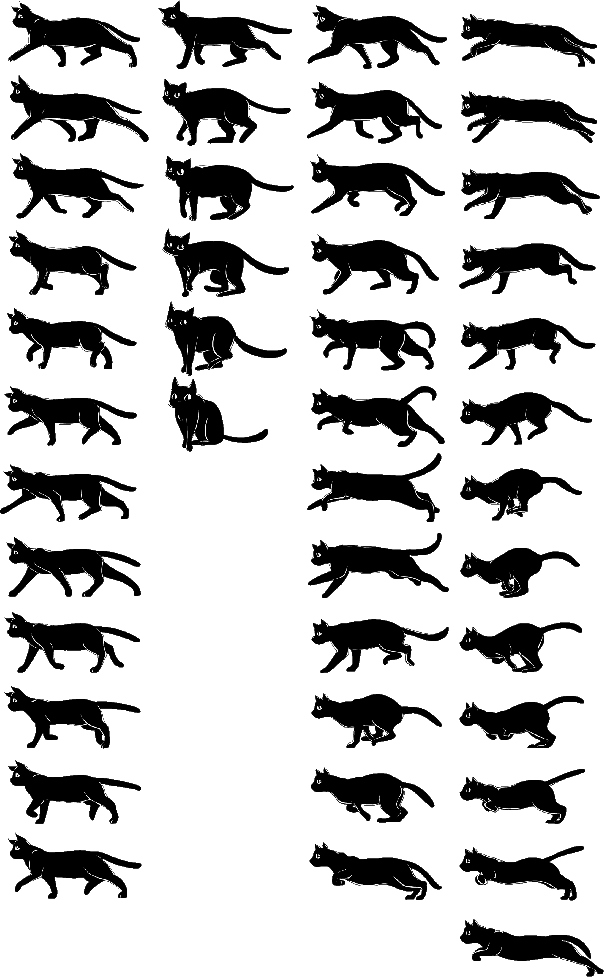
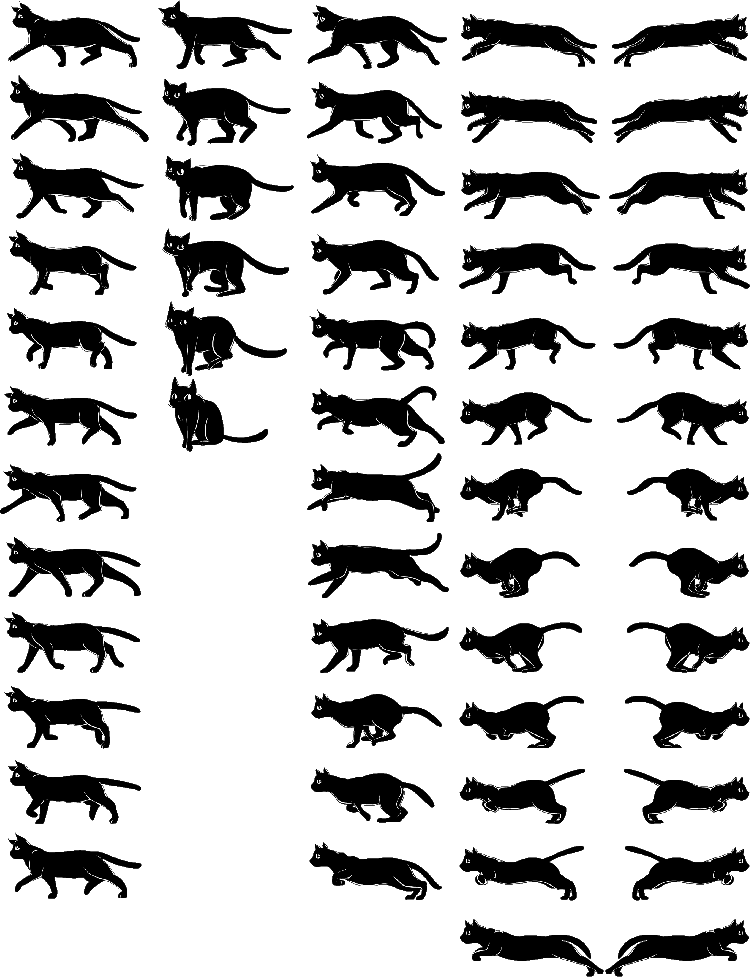
added cat game

Changed region(s): [[0.0, 0.0, 1.0, 1.0]]

diff --git a/js/app.js b/js/app.js
@@ -10,16 +10,165 @@ $(document).ready(function () {
     });
 
 
+    //prevent clicking to highlight
+    $('#cat_holder').mousedown(function(){ return false; })
+    $('#little_cat_container').mousedown(function(){ return false; })
+    $('.home-section').mousedown(function(){ return false; })
+
     var animation = $('.tuna_container');
 
     animation.one('webkitAnimationEnd oanimationend msAnimationEnd animationend',   
     function(e) {
-    	//$('#little_cat').removeClass('tuna');
+    	console.log("called!");
+	    
 	    $('#little_cat').removeClass('tuna-walk');
 	    $('#little_cat').addClass('tuna-sit');
-	    // code to execute after animation ends
-	    //console.log('hehe!');
-   
+
+	    createKittyPopOver();
+	    
+    });
+    var popoverContent =  "I've been a naughty kitten, play a game of <b> Hit the Meow? </b> </br> " +
+	    						"<small> Game rule: Try to hit me while I'm on the run :P </small> </br></br> " +
+	    						"<div class=\"kitten_conv\">" + 
+	    						"<button id=\"tuna_challenge_yes\" class=\"btn\">Yes </button> &nbsp&nbsp"+
+	    						"<button id=\"tuna_challenge_no\" class=\"btn btn-danger\">Close</button>" +
+	    						"</div> ";
+
+	function getPopOverContent(){
+		return popoverContent;
+	}
+
+	function createKittyPopOver(){
+
+	    
+
+	    $('#little_cat').popover({
+	    	html:true,
+	    	placement:'top',
+	    	content:function () { return getPopOverContent(); },
+	    	delay:'0',
+	    	trigger:'manual'
+	    });
+
+	    $('#little_cat').popover('show');
+
+
+	    $('#tuna_challenge_yes').click(function(event){
+	    	$('#little_cat').popover('hide');
+	    	startGame();
+	    });
+
+
+	    $('#tuna_challenge_no').click(function(event){
+	    	console.log('clicked!');
+	    	$('#little_cat').popover('hide');
+	    });
+	}
+
+	var gameInterval; 
+
+	function startGame(){
+
+		//start the cat animation to run
+	    $('#little_cat_container').removeClass('tuna_container');
+	    $('#little_cat_container').addClass("tuna_run_container");
+
+	    $('#timer_score').show();
+
+	    var timeleft = 10;
+	    $('#timer_left').text(timeleft);
+
+	    var x = 0;
+	    $('#little_cat').removeClass('tuna-sit');
+	    gameInterval = window.setInterval(function(){
+	    	if(x ==0){
+	    		x=1;	
+	    		$('#little_cat').removeClass('tuna-run-right');
+	    		$('#little_cat').addClass('tuna-run-left');		
+	    	}else{
+	    		x=0;
+	    		$('#little_cat').removeClass('tuna-run-left');
+	    		$('#little_cat').addClass('tuna-run-right');
+	    		timeleft--;
+	    		$('#timer_left').text(timeleft);
+	    	}
+	    	
+	    },500);
+
+	    var score =0;
+
+	    $('#little_cat').click(function(e){
+	    	console.log('clicked!');
+	    	score++;
+	    	$('#score_result').text(score);
+	    	$( "#little_cat" ).effect('pulsate',{times:1},50,function(){});
+	    })
+
+
+	    window.setTimeout(stopGame,10000);
+	    //$('#little_cat').addClass('tuna-run');
+
+		//register a click counter that add score
+
+		//when times up say its up, retry? or close? 
+	}
+
+	function stopGame(){
+		console.log('called stop game!');
+
+	    $('#timer_left').text('0');
+
+		clearInterval(gameInterval);
+		$('#little_cat').removeClass('tuna-run-left');
+		$('#little_cat').removeClass('tuna-run-right');
+		$('#little_cat_container').removeClass('tuna_run_container');
+
+
+		$('#little_cat_container').effect('explode',{},500,function(){
+			$('#little_cat_container').addClass('tuna-container');
+			$('#little_cat').addClass('tuna-sit');
+		});
+
+
+		$('#little_cat_container').fadeOut(800,function(){
+			$('#little_cat_container').addClass('tuna-container');
+			$('#little_cat').addClass('tuna-sit');
+		});
+
+
+		$('#little_cat_container').fadeIn(3000,function(){
+			createRestartPopOver();
+		});
+
+
+	}
+
+	function createRestartPopOver(){
+		popoverContent =  "Not bad! Again? </br> </br>" +
+	    						"<div class=\"kitten_conv\">" + 
+	    						"<button id=\"tuna_challenge_yes\" class=\"btn\">Yes </button> &nbsp&nbsp"+
+	    						"<button id=\"tuna_challenge_no\" class=\"btn btn-danger\">Close</button>" +
+	    						"</div>" ;
+
+	    $('#little_cat').popover('show');
+
+	    $('#tuna_challenge_yes').click(function(event){
+	    	$('#little_cat').popover('hide');
+	    	startGame();
+	    });
+
+
+	    $('#tuna_challenge_no').click(function(event){
+	    	console.log('clicked!');
+	    	$('#little_cat').popover('hide');
+	    });
+	}
+
+
+
+    $('#little_cat').click(function(event) {
+    	event.preventDefault();
+    	//createKittyPopOver();
     });
 
 });

diff --git a/index.html b/index.html
@@ -16,6 +16,7 @@
     <link rel="stylesheet" href="css/barometer.css">
     <link rel="stylesheet" href="css/animation.css">
 
+
 </head>
 
 <body>
@@ -54,11 +55,17 @@
 
                         </div>
 
-                        <div class="bottom_right">
-                            <div class="tuna_container">
-                                <div id="little_cat" class="tuna-walk"></div>
+                        <div class="timer_score" id="timer_score">
+                            <b> Score </b>: <span id="score_result"> </span> </br>
+                            <b> Time left </b> : <span id="timer_left">10 </span> secs
+                        </div>
+
+                        <div class="bottom_right"  id="cat_holder">
+                            <div id="little_cat_container" class="tuna_container" >
+                                <div id="little_cat" class="tuna-walk" ></div>
                             </div>
                         </div>
+
 
                     </section>
 
@@ -189,10 +196,9 @@
 
     </body>
 
-    <script src="js/jquery.min.js"></script>
 
-    <script>window.jQuery || document.write('<script src="js/vendor/jquery-1.10.1.min.js"><\/script>')</script>
-
+    <script src="http://code.jquery.com/jquery-1.9.1.js"></script>
+    <script src="http://code.jquery.com/ui/1.10.3/jquery-ui.js"></script>
 
     <script src="js/modernizr-2.6.2-respond-1.1.0.min.js"></script>
     <script src="js/bootstrap.min.js"></script>
@@ -219,7 +225,7 @@
     <!-- <style type='text/css'>@import url('http://getbarometer.s3.amazonaws.com/assets/barometer/css/barometer.css');</style> -->
     <!-- <script src='http://getbarometer.s3.amazonaws.com/assets/barometer/javascripts/barometer.js' type='text/javascript'></script> -->
     <script type="text/javascript" charset="utf-8">
-      BAROMETER.load('aexhYBTZHTZsmszD61GaM');
+      //BAROMETER.load('aexhYBTZHTZsmszD61GaM');
     </script>
 
 </body>

diff --git a/css/animation.css b/css/animation.css
@@ -8,8 +8,10 @@
 
 .tuna_container {
 	-webkit-animation: moon-walk 5s 1 ease-in;
-	height: 70px;
-    width: 150px;
+}
+
+.tuna_run_container{
+	-webkit-animation: tuna-run 1s ease-in 1 infinite;
 }
 
 .tuna-walk{
@@ -20,7 +22,6 @@
     z-index: 100;
 }
 
-
 .tuna-sit{
     -webkit-animation: sit-cycle 1s steps(6) 1;
     background: url(../img/cat_spirite.png) -150 -377 no-repeat;
@@ -29,6 +30,76 @@
     z-index: 100;
 }
 
+.tuna-run-right{
+    -webkit-animation: run-right-cycle 0.2s steps(12) infinite;
+    background: url(../img/cat_spirite.png) -600 0 no-repeat;
+    height: 70px;
+    width: 150px;
+    z-index: 100;
+}
+
+.tuna-run-left{
+    -webkit-animation: run-left-cycle 0.2s steps(12) infinite;
+    background: url(../img/cat_spirite.png) -450 0 no-repeat;
+    height: 70px;
+    width: 150px;
+    z-index: 100;
+}
+
+
+@-webkit-keyframes moon-right-run {  
+
+  0% {
+        margin-left:10%;
+  }
+  100% {
+        margin-left:90%%;
+  } /* Must be full height of sprite or skipping will happen.*/
+
+}
+
+@-webkit-keyframes tuna-run{
+  0% {
+        margin-left:10%;
+  } 
+  25% {
+  		margin-left:40%;
+  }
+  50% {
+        margin-left:95%%;
+  }
+
+  75% {
+        margin-left:40%%;
+  }
+
+  100% {
+        margin-left:10%%;
+  }
+   /* Must be full height of sprite or skipping will happen.*/
+}
+
+@-webkit-keyframes run-right-cycle {
+  0% {
+    background-position: -600 0; 
+  } 
+
+  100% {
+    background-position: -600 -907; 
+  } /* Must be full height of sprite or skipping will happen.*/
+
+}
+
+@-webkit-keyframes run-left-cycle {
+  0% {
+    background-position: -450 0; 
+  } 
+
+  100% {
+    background-position: -450 -907; 
+  } /* Must be full height of sprite or skipping will happen.*/
+
+}
 
 
 @-webkit-keyframes sit-cycle {  

diff --git a/css/app.css b/css/app.css
@@ -284,3 +284,23 @@ font-weight:700;
 li {
 	line-height: 30px;
 }
+
+.popover-title{
+
+	color:black;
+}
+
+.popover-content {
+	color:black;
+}
+
+.timer_score{
+	position: absolute;
+	bottom: 15%;
+	right: 50px;
+	display:none;
+}
+
+.kitten_conv{
+	text-align:right;
+}
